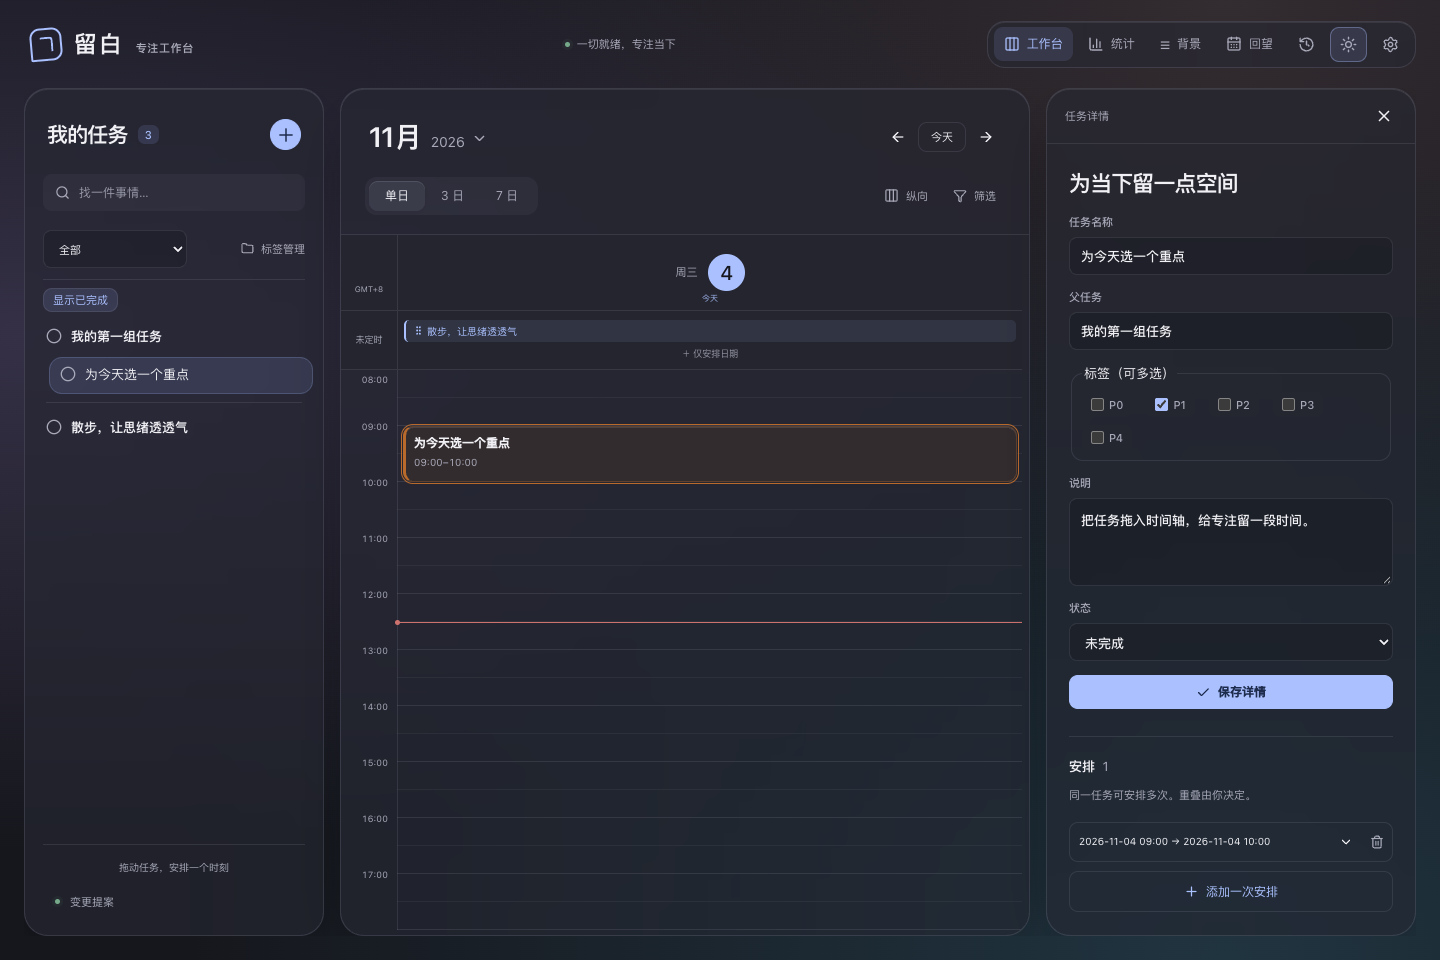
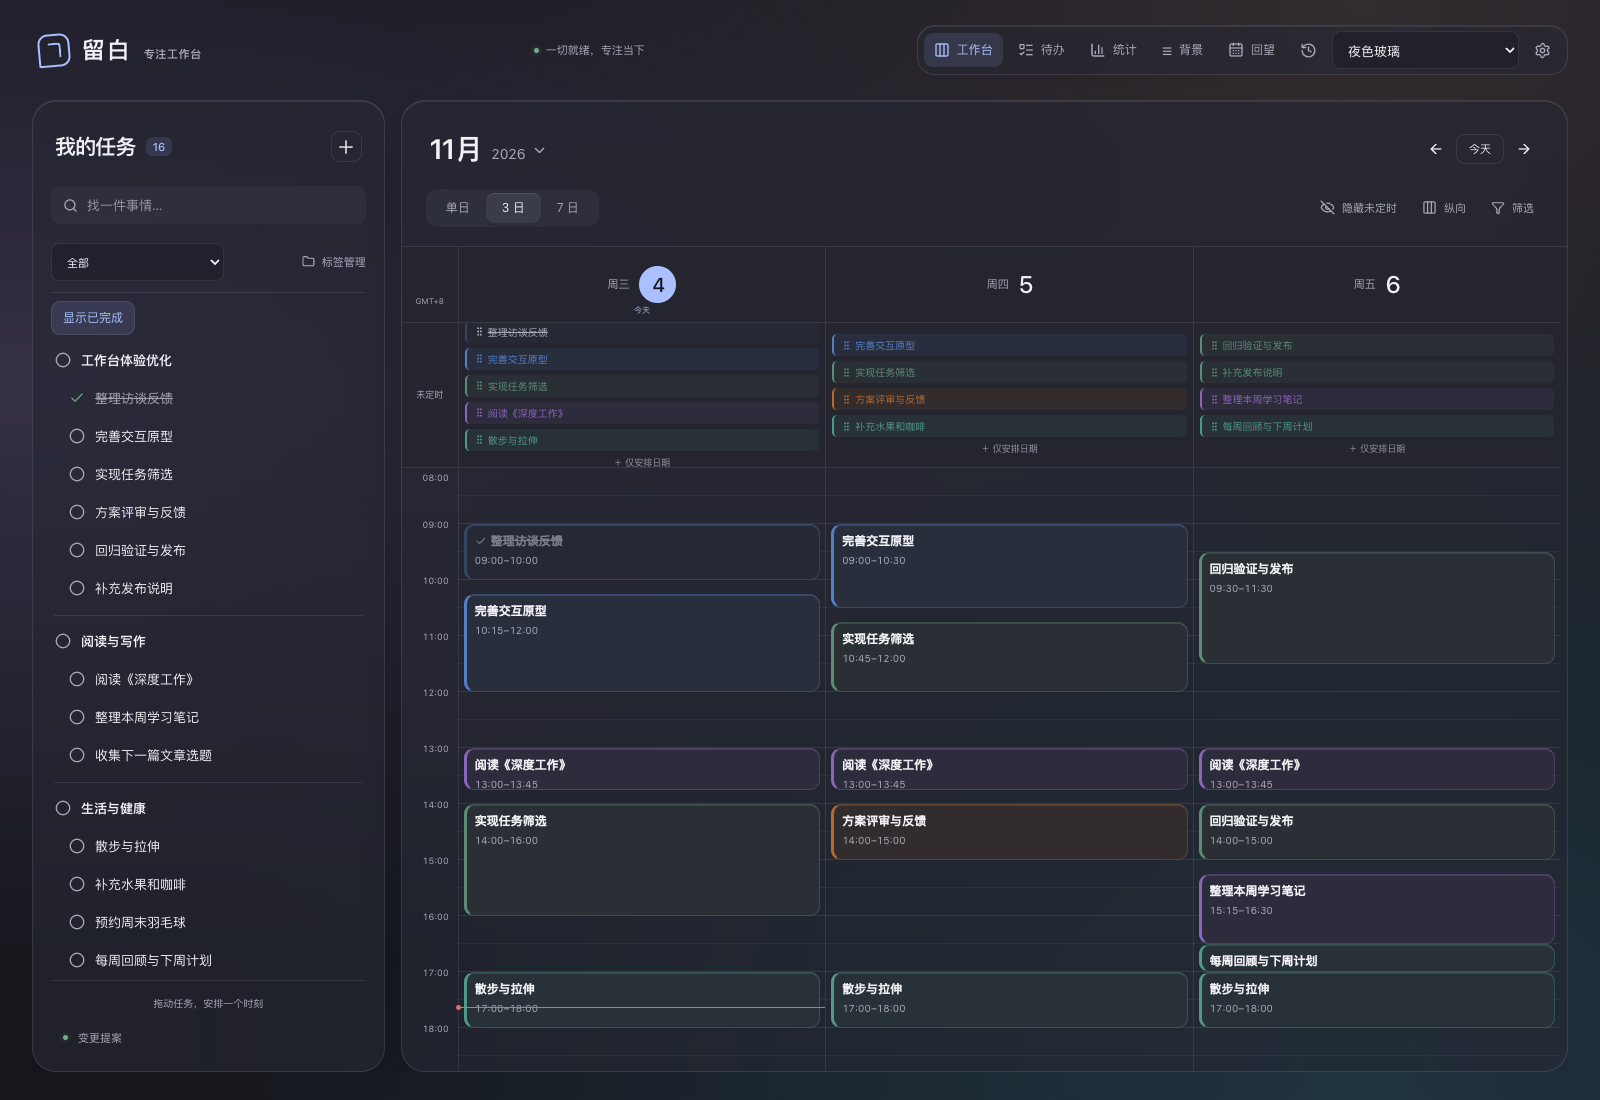
docs: 完善多主题介绍与日常使用示例截图

diff --git a/README.md b/README.md
@@ -8,13 +8,43 @@
 
 **多主题工作台 · JSON / Markdown · AI 友好 · 本机运行**
 
-支持 **晨光玻璃、夜色玻璃、新粗野主义（Neobrutalism）、黏土拟态（Claymorphism）、柔光拟态（Neumorphism）** 五种主题。同一份任务与排期可以自由选择不同界面风格，新主题与旧主题并存。
+支持 **柔光拟态、黏土拟态、新粗野主义、晨光玻璃、夜色玻璃** 五种主题，覆盖柔和立体、鲜明色块与深浅玻璃等不同风格。各风格拥有自己的材质与布局，共用同一份任务、标签和排期，可以按喜好随时选择。
 
-[开始使用](#开始使用) · [支持的主题](#支持的主题) · [使用指南](docs/USER-GUIDE.md) · [AI 协作指南](docs/AI-USAGE.md)
+[开始使用](#开始使用) · [支持的主题](#支持的主题) · [待办与统计](#待办与统计) · [使用指南](docs/USER-GUIDE.md) · [AI 协作指南](docs/AI-USAGE.md)
 
-![留白浅色工作台：左侧任务树、中央时间轴、右侧任务详情](docs/images/workbench-light.png)
+![柔光拟态主题：晨光暖白底色、凸起任务卡片与内凹控件](docs/images/workbench-neumorphism.png)
 
-*真实界面，使用内置示例数据。任务、时间与详情，在同一张工作台展开。*
+*默认的柔光拟态主题。使用日常模拟数据真实渲染，展示项目任务、阅读写作与生活安排。*
+
+## 支持的主题
+
+**一份计划，五种视觉体验。** 默认使用柔光拟态的晨光暖白配色。在顶部「界面风格」中选择主题，选择会保存，刷新或重启后继续生效。
+
+| 主题 | 视觉特点 | 布局特点 |
+| --- | --- | --- |
+| 晨光玻璃 | 浅色、半透明表面、柔和阴影 | 可调整任务面板宽度的工作台 |
+| 夜色玻璃 | 深色、玻璃材质、低亮度背景 | 与晨光玻璃共用布局 |
+| 新粗野主义（Neobrutalism） | 粗黑描边、硬阴影、加粗标题、鲜艳色块 | 独立布局，固定任务栏与详情浮层 |
+| 柔光拟态（Neumorphism） | 晨光暖白、柔和凸起与内凹光影，可调整材质参数 | 固定任务栏与详情浮层 |
+| 黏土拟态（Claymorphism） | 浅紫与柔粉、大圆角、内高光与柔软立体阴影 | 固定任务栏与详情浮层，紧凑待办列表 |
+
+**不同风格独立维护界面，共用同一套业务能力与数据。** 切换主题不会复制或更改任务、标签与排期；新增风格不会替换旧风格。柔光拟态还支持自定义底色、强调色、圆角与光影，让工作台更贴近自己的偏好。
+
+为保护未保存内容，编辑区域或弹窗打开、拖拽与保存期间暂不可切换。请先完成编辑并关闭区域，再选择其他主题。新粗野主义与黏土拟态目前提供浅色版本。
+
+### 主题样例
+
+以下截图与首图使用同一组日常模拟数据：16 个任务、30 条日期与时段安排，包含项目层级、已完成事项、未定时任务和三日时间轴。五种主题使用相同窗口尺寸与排期，便于对比实际效果；点击图片可查看大图。
+
+| 黏土拟态 · Claymorphism | 新粗野主义 · Neobrutalism |
+| --- | --- |
+| 浅紫柔粉、大圆角与柔软立体阴影 | 粗黑描边、硬阴影与鲜艳色块 |
+| [![黏土拟态主题：浅紫背景、大圆角面板与立体任务卡片](docs/images/workbench-claymorphism.png)](docs/images/workbench-claymorphism.png) | [![新粗野主义主题：粗黑描边、硬阴影与鲜明色块](docs/images/workbench-neobrutalism.png)](docs/images/workbench-neobrutalism.png) |
+
+| 晨光玻璃 | 夜色玻璃 |
+| --- | --- |
+| 浅色半透明表面与柔和阴影 | 深色玻璃材质与低亮度背景 |
+| [![晨光玻璃主题：浅色半透明任务面板与时间轴](docs/images/workbench-light.png)](docs/images/workbench-light.png) | [![夜色玻璃主题：相同任务与排期的深色界面](docs/images/workbench-dark.png)](docs/images/workbench-dark.png) |
 
 ## 极简，从今天的一件事开始
 
@@ -23,9 +53,22 @@
 - **把大事拆小。** 任务可以逐层拆分，用标签标记重点，也能快速搜索。
 - **让计划看得见。** 拖动安排、拉伸时长；单日、三日、七日视图，按自己的节奏切换。
 - **给变化留余地。** 同一任务可以安排多次，删除某次安排仍保留任务。
-- **为一天留一句话。** 每日回望与独立笔记记录想法，统计帮助你回顾计划与完成情况。
+- **为一天留一句话。** 每日回望与独立笔记记录想法，统计帮助你回顾时间投入。
 
 初次打开是一张空白工作台。你可以从自己的第一件事开始，也可以点击「先体验一组示例」试一试。
+
+## 待办与统计
+
+除了时间轴工作台，还可以从顶部进入「待办」与「统计」：一个帮你梳理要做的事，一个帮你回顾时间花在了哪里。
+
+- **待办：按日期整理任务。** 支持今日、3 日、7 日和本周视图，集中查看过期与未分配日期的事项；保留任务层级，可搜索、勾选完成、行内改名，或拖拽调整日期与归属。
+- **统计：回顾时间投入。** 支持近 30 天、本周、本月和自定义范围，展示工作与个人时长、每日趋势、加班、午休占用及标签分布，并可展开每日明细。统计基于已发生的定时安排，今日截至当前时间；未定时安排不计入时长。
+
+下图选用柔光拟态展示两个页面的真实渲染：待办沿用工作台的日常模拟任务，展示过期、今日、已完成和未分配日期的事项；统计使用覆盖 92 天、351 条任务的模拟数据，展示长期使用后的近 30 天投入趋势。所有截图均为演示数据，并非真实个人记录。点击图片可查看大图。
+
+| 待办 · 每天要做什么 | 统计 · 时间花在哪里 |
+| --- | --- |
+| [![柔光拟态待办页：按日期分组的任务、过期事项与未分配日期的任务树](docs/images/todo-neumorphism.png)](docs/images/todo-neumorphism.png) | [![柔光拟态统计页：长期模拟数据的近 30 天投入概览、每日趋势与标签分布](docs/images/statistics-neumorphism.png)](docs/images/statistics-neumorphism.png) |
 
 ## 纯文件化，你的数据就在文件夹里
 
@@ -70,24 +113,6 @@ flowchart LR
 
 工作台无需配置模型密钥，模型登录和额度由 CLI 管理。文件保存在本机；使用 AI 时，读取的内容会进入所用 CLI 的模型上下文。当前正式验收入口为 Codex，其他 CLI 的接入说明见 [AI 协作指南](docs/AI-USAGE.md)。
 
-## 支持的主题
-
-默认使用柔光拟态的晨光暖白配色。在顶部「界面风格」中选择主题，选择会保存，刷新或重启后继续生效。
-
-| 主题 | 视觉特点 | 布局特点 |
-| --- | --- | --- |
-| 晨光玻璃 | 浅色、半透明表面、柔和阴影 | 可调整任务面板宽度的工作台 |
-| 夜色玻璃 | 深色、玻璃材质、低亮度背景 | 与晨光玻璃共用布局 |
-| 新粗野主义（Neobrutalism） | 粗黑描边、硬阴影、加粗标题、鲜艳色块 | 独立布局，固定任务栏与详情浮层 |
-| 柔光拟态（Neumorphism） | 晨光暖白、柔和凸起与内凹光影，可调整材质参数 | 固定任务栏与详情浮层 |
-| 黏土拟态（Claymorphism） | 浅紫与柔粉、大圆角、内高光与柔软立体阴影 | 固定任务栏与详情浮层，紧凑待办列表 |
-
-**不同风格独立维护界面，共用同一套业务能力与数据。** 切换主题不会复制或更改任务、标签与排期；新增风格不会替换旧风格。后续风格可以独立设计页面结构与交互，不必沿用玻璃布局。
-
-为保护未保存内容，编辑区域或弹窗打开、拖拽与保存期间暂不可切换。请先完成编辑并关闭区域，再选择其他主题。新粗野主义与黏土拟态目前提供浅色版本。
-
-![留白深色工作台：相同任务与排期在深色主题下的展示](docs/images/workbench-dark.png)
-
 ## 开始使用
 
 准备 Node.js **22.12 或更新版本**与 npm，在项目目录运行：
@@ -118,7 +143,7 @@ v0.8.0 / claymorphism-theme：[功能计划](docs/plans/v0.8.0_claymorphism-them
 
 v0.6.0 / neobrutalism-theme：[功能计划](docs/plans/v0.6.0_neobrutalism-theme_functional-plan.md) · [技术方案](docs/plans/v0.6.0_neobrutalism-theme_technical-plan.md)。
 
-`src/client/presentations/glass`、`neobrutalism` 与 `claymorphism` 分别维护页面入口、布局、配色和样式；同族深浅玻璃共享页面。`application/useWorkbench` 管理公共数据与操作，`App` 负责装配。共享控件通过 `Appearance` 获取样式，可由新的界面选择复用或替换，不得互相导入其他风格的页面或 CSS。
+`src/client/presentations/glass`、`neobrutalism`、`claymorphism` 与 `neumorphism` 分别维护页面入口、布局、配色和样式；同族深浅玻璃共享页面。`application/useWorkbench` 管理公共数据与操作，`App` 负责装配。共享控件通过 `Appearance` 获取样式，可由新的界面选择复用或替换，不得互相导入其他风格的页面或 CSS。
 
 新增风格应在自己的目录实现界面与样式，在装配入口和主题注册表登记，并扩展当前偏好类型与校验；不要修改冻结的历史校验。执行公共功能测试、风格依赖隔离与样式契约测试，并分别验收所有界面的主要流程。当前编辑草稿保留在控件内，因此切换前必须关闭编辑区域；不会自动跨不同界面迁移未保存表单。
 
